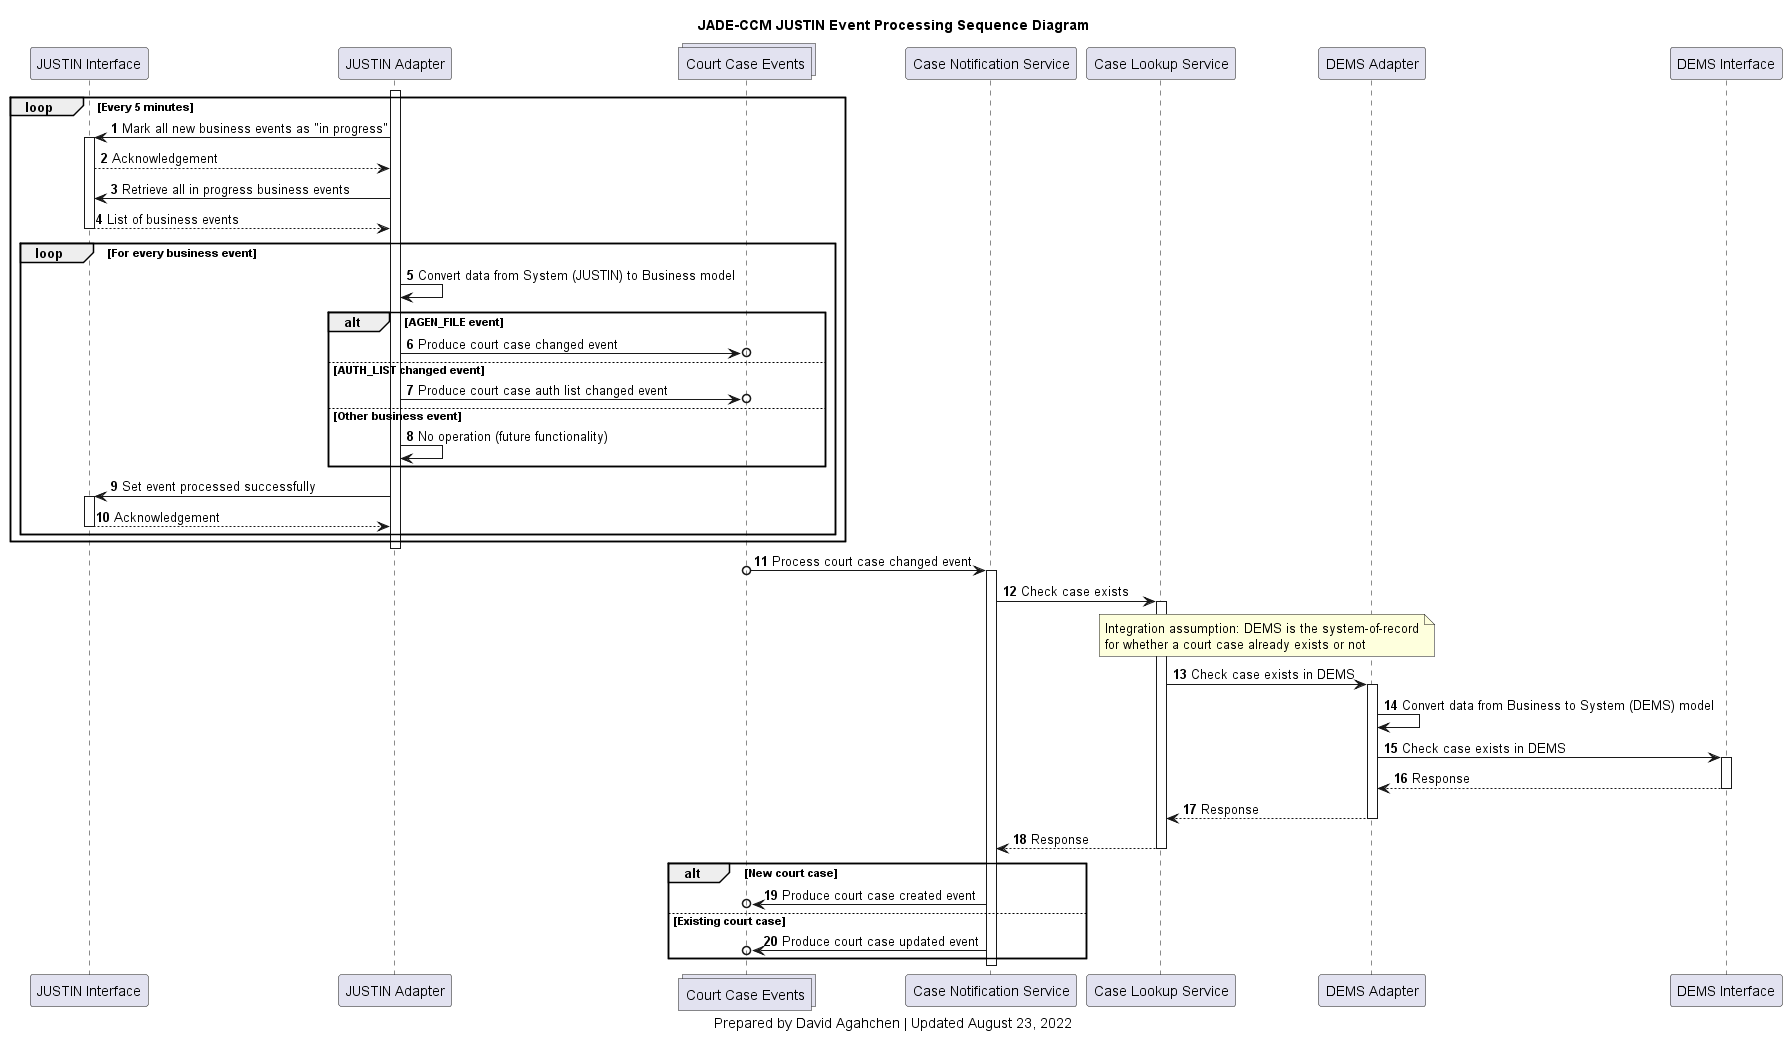
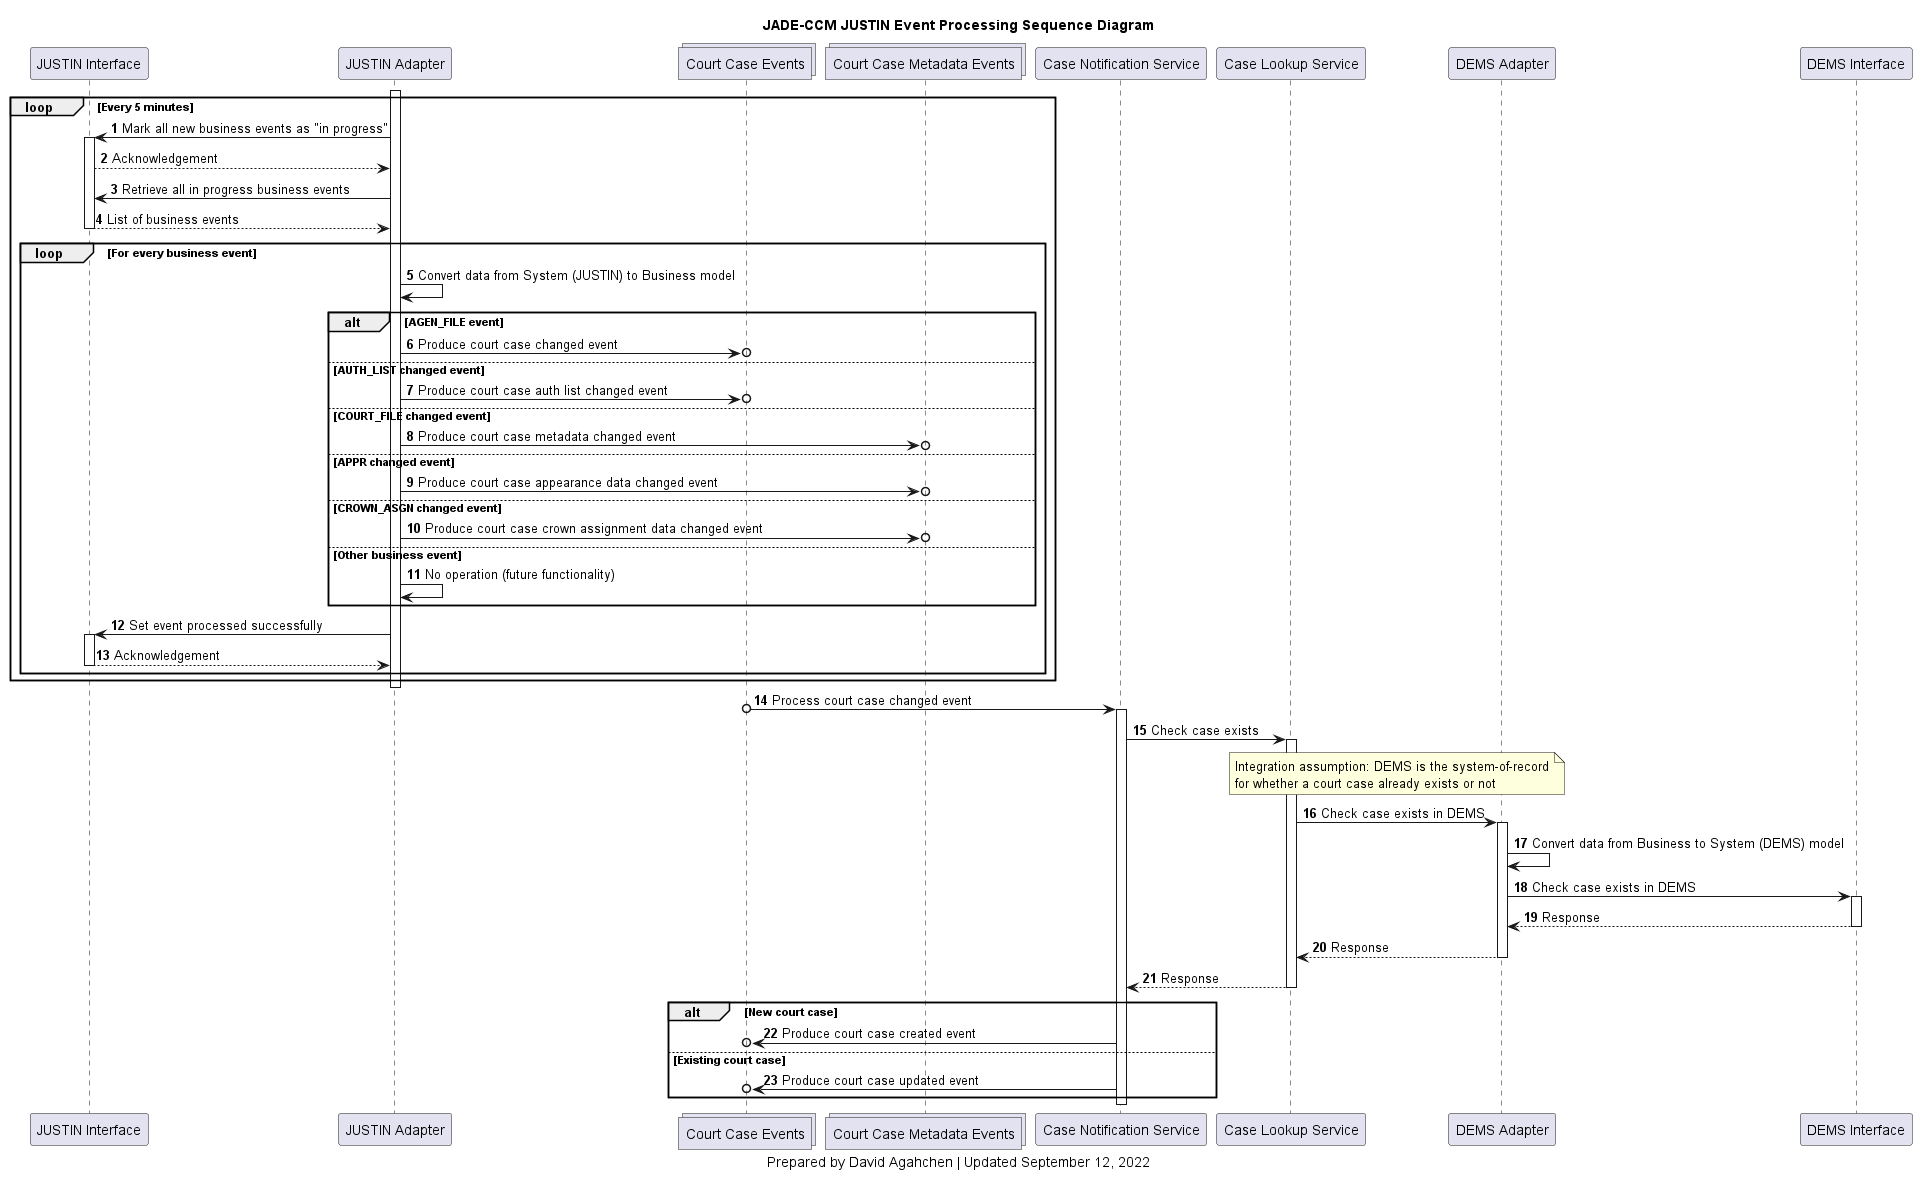
5.2.2 model changes

diff --git a/src/main/java/ccm/CcmNotificationService.java b/src/main/java/ccm/CcmNotificationService.java
@@ -20,11 +20,8 @@ import org.apache.camel.Processor;
 import org.apache.camel.builder.RouteBuilder;
 import org.apache.camel.model.dataformat.JsonLibrary;
 
-import ccm.models.business.BusinessCourtCaseData;
 import ccm.models.business.BusinessCourtCaseEvent;
-import ccm.models.business.BusinessCourtCaseMetadataData;
 import ccm.models.business.BusinessCourtCaseMetadataEvent;
-import ccm.models.system.dems.DemsCourtCaseData;
 
 public class CcmNotificationService extends RouteBuilder {
   @Override
@@ -56,13 +53,13 @@ public class CcmNotificationService extends RouteBuilder {
     .setHeader("event")
       .simple("${body}")
     .choice()
-      .when(header("event_status").isEqualTo(BusinessCourtCaseEvent.STATUS_CHANGED))
+      .when(header("event_status").isEqualTo(BusinessCourtCaseEvent.STATUS.CHANGED))
         .to("direct:processCourtCaseChanged")
-      .when(header("event_status").isEqualTo(BusinessCourtCaseEvent.STATUS_CREATED))
+      .when(header("event_status").isEqualTo(BusinessCourtCaseEvent.STATUS.CREATED))
         .to("direct:processCourtCaseCreated")
-      .when(header("event_status").isEqualTo(BusinessCourtCaseEvent.STATUS_UPDATED))
+      .when(header("event_status").isEqualTo(BusinessCourtCaseEvent.STATUS.UPDATED))
         .to("direct:processCourtCaseUpdated")
-      .when(header("event_status").isEqualTo(BusinessCourtCaseEvent.STATUS_AUTH_LIST_CHANGED))
+      .when(header("event_status").isEqualTo(BusinessCourtCaseEvent.STATUS.AUTH_LIST_CHANGED))
         .to("direct:processCourtCaseAuthListChanged")
       .otherwise()
         .to("direct:processUnknownStatus");
@@ -82,10 +79,8 @@ public class CcmNotificationService extends RouteBuilder {
     .setHeader("event")
       .simple("${body}")
     .choice()
-      .when(header("event_status").isEqualTo(BusinessCourtCaseMetadataEvent.STATUS_CHANGED))
+      .when(header("event_status").isEqualTo(BusinessCourtCaseMetadataEvent.STATUS.CHANGED))
         .to("direct:processCourtCaseMetadataChanged")
-      .when(header("event_status").isEqualTo(BusinessCourtCaseMetadataEvent.STATUS_UPDATED))
-        .to("direct:processCourtCaseMetadataUpdated")
       .otherwise()
         .to("direct:processUnknownStatus");
     ;
@@ -109,14 +104,14 @@ public class CcmNotificationService extends RouteBuilder {
 
         String event_object_id = ex.getIn().getHeader("event_object_id").toString();
 
-        be.setEvent_source(BusinessCourtCaseEvent.SOURCE_JADE_CCM);
+        be.setEvent_source(BusinessCourtCaseEvent.SOURCE.JADE_CCM.toString());
         be.setEvent_object_id(event_object_id);
         be.setJustin_rcc_id(event_object_id);
 
         if (court_case_exists) {
-          be.setEvent_status(BusinessCourtCaseEvent.STATUS_UPDATED);
+          be.setEvent_status(BusinessCourtCaseEvent.STATUS.UPDATED.toString());
         } else {
-          be.setEvent_status(BusinessCourtCaseEvent.STATUS_CREATED);
+          be.setEvent_status(BusinessCourtCaseEvent.STATUS.CREATED.toString());
         }
 
         ex.getMessage().setBody(be);
@@ -174,29 +169,6 @@ public class CcmNotificationService extends RouteBuilder {
 
     from("direct:processCourtCaseMetadataChanged")
     .routeId("processCourtCaseMetadataChanged")
-    .streamCaching() // https://camel.apache.org/manual/faq/why-is-my-message-body-empty.html
-    .log("processCourtCaseChanged.  event_object_id = ${header[event_object_id]}")
-    .setHeader("number", simple("${header[event_object_id]}"))
-    .unmarshal().json(JsonLibrary.Jackson, BusinessCourtCaseMetadataEvent.class)
-    .process(new Processor() {
-      @Override
-      public void process(Exchange ex) {
-        BusinessCourtCaseMetadataEvent be = ex.getIn().getBody(BusinessCourtCaseMetadataEvent.class);
-
-        // hardcoding conversion from STATUS_CHANGED to STATUS_UPDATED for first implementation
-        be.setEvent_status(BusinessCourtCaseMetadataEvent.STATUS_UPDATED);
-        be.setEvent_source(BusinessCourtCaseMetadataEvent.SOURCE_JADE_CCM);
-
-        ex.getMessage().setBody(be);
-      }
-    })
-    .marshal().json(JsonLibrary.Jackson, BusinessCourtCaseMetadataEvent.class)
-    .log("Generating derived court case event: ${body}")
-    .to("kafka:{{kafka.topic.courtcase-metadatas.name}}")
-    ;
-
-    from("direct:processCourtCaseMetadataUpdated")
-    .routeId("processCourtCaseMetadataUpdated")
     .streamCaching() // https://camel.apache.org/manual/faq/why-is-my-message-body-empty.html
     .log("processCourtCaseUpdated.  event_object_id = ${header[event_object_id]}")
     .setHeader("number", simple("${header[event_object_id]}"))

diff --git a/src/main/java/ccm/models/business/BusinessCourtCaseEvent.java b/src/main/java/ccm/models/business/BusinessCourtCaseEvent.java
@@ -15,38 +15,46 @@ public class BusinessCourtCaseEvent extends BusinessBaseEvent {
   private String justin_guid;
   private String justin_rcc_id;
 
-  public static final String COURT_CASE_EVENT_VERSION = "1.0";
-
-  public static final String STATUS_CHANGED = "CHANGED";
-  public static final String STATUS_CREATED = "CREATED";
-  public static final String STATUS_UPDATED = "UPDATED";
-  public static final String STATUS_AUTH_LIST_CHANGED = "AUTH_LIST_CHANGED";
-
-  public static final String SOURCE_JUSTIN = "JUSTIN";
-  public static final String SOURCE_JADE_CCM = "JADE-CCM";
+  public static final String EVENT_VERSION = "1.0";
 
   public static final String JUSTIN_FETCHED_DATE = "FETCHED_DATE";
   public static final String JUSTIN_GUID = "GUID";
-  public static final String JUSTIN_RCC_ID = "RCC_ID";
+  public static final String JUSTIN_RCC_ID = "RCC_ID";  
+
+  public enum SOURCE {
+    JUSTIN,
+    JADE_CCM
+  }
+  
+  public enum STATUS {
+    CHANGED,
+    CREATED,
+    UPDATED,
+    AUTH_LIST_CHANGED;
+  }
 
   public BusinessCourtCaseEvent() {
-    super.setEvent_version(COURT_CASE_EVENT_VERSION);
+    super.setEvent_version(EVENT_VERSION);
   }
 
   public BusinessCourtCaseEvent(JustinEvent je) {
     this();
 
-    setEvent_source(SOURCE_JUSTIN);
+    setEvent_source(SOURCE.JUSTIN.toString());
 
     setJustin_event_message_id(je.getEvent_message_id());
     setJustin_message_event_type_cd(je.getMessage_event_type_cd());
 
-    switch(je.getMessage_event_type_cd()) {
-      case JustinEvent.EVENT_TYPE_AGEN_FILE:
-        setEvent_status(STATUS_CHANGED);
+    switch(JustinEvent.STATUS.valueOf(je.getMessage_event_type_cd())) {
+      case AGEN_FILE:
+        setEvent_status(STATUS.CHANGED.toString());
         break;
-      case JustinEvent.EVENT_TYPE_AUTH_LIST:
-        setEvent_status(STATUS_AUTH_LIST_CHANGED);
+      case AUTH_LIST:
+        setEvent_status(STATUS.AUTH_LIST_CHANGED.toString());
+        break;
+      default:
+        // unknown status
+        setEvent_status("");
         break;
     }
     

diff --git a/src/main/java/ccm/models/business/BusinessCourtCaseMetadataEvent.java b/src/main/java/ccm/models/business/BusinessCourtCaseMetadataEvent.java
@@ -15,34 +15,48 @@ public class BusinessCourtCaseMetadataEvent extends BusinessBaseEvent {
   private String justin_guid;
   private String justin_mdoc_no;
 
-  public static final String COURT_CASE_EVENT_VERSION = "1.0";
-
-  public static final String STATUS_CHANGED = "CHANGED";
-  public static final String STATUS_CREATED = "CREATED";
-  public static final String STATUS_UPDATED = "UPDATED";
-
-  public static final String SOURCE_JUSTIN = "JUSTIN";
-  public static final String SOURCE_JADE_CCM = "JADE-CCM";
+  public static final String EVENT_VERSION = "1.0";
 
   public static final String JUSTIN_FETCHED_DATE = "FETCHED_DATE";
   public static final String JUSTIN_GUID = "GUID";
   public static final String JUSTIN_MDOC_NO = "MDOC_JUSTIN_NO";
 
+  public enum SOURCE {
+    JUSTIN,
+    JADE_CCM;
+  }
+
+  public enum STATUS {
+    CHANGED,
+    APPEARANCE_CHANGED,
+    CROWN_ASSIGNMENT_CHANGED
+  }
+
   public BusinessCourtCaseMetadataEvent() {
-    super.setEvent_version(COURT_CASE_EVENT_VERSION);
+    super.setEvent_version(EVENT_VERSION);
   }
 
   public BusinessCourtCaseMetadataEvent(JustinEvent je) {
     this();
 
-    setEvent_source(SOURCE_JUSTIN);
+    setEvent_source(SOURCE.JUSTIN.toString());
 
     setJustin_event_message_id(je.getEvent_message_id());
     setJustin_message_event_type_cd(je.getMessage_event_type_cd());
 
-    switch(je.getMessage_event_type_cd()) {
-      case JustinEvent.EVENT_TYPE_COURT_FILE:
-        setEvent_status(STATUS_CHANGED);
+    switch(JustinEvent.STATUS.valueOf(je.getMessage_event_type_cd())) {
+      case COURT_FILE:
+        setEvent_status(STATUS.CHANGED.toString());
+        break;
+      case APPR:
+        setEvent_status(STATUS.APPEARANCE_CHANGED.toString());
+        break;
+      case CROWN_ASGN:
+        setEvent_status(STATUS.CROWN_ASSIGNMENT_CHANGED.toString());
+        break;
+      default:
+        // unknown status
+        setEvent_status("");
         break;
     }
     

diff --git a/src/main/java/ccm/models/system/justin/JustinEvent.java b/src/main/java/ccm/models/system/justin/JustinEvent.java
@@ -13,16 +13,32 @@ public class JustinEvent {
   private String event_dtm;
   private List<JustinEventDataElement> event_data;
 
-  public static final String EVENT_TYPE_AGEN_FILE = "AGEN_FILE";
-  public static final String EVENT_TYPE_AUTH_LIST = "AUTH_LIST";
-  public static final String EVENT_TYPE_COURT_FILE = "COURT_FILE";
+  public enum STATUS {
+    AGEN_FILE,
+    AUTH_LIST,
+    COURT_FILE,
+    APPR,
+    CROWN_ASGN;
+  }
 
   public boolean isAgenFileEvent() {
-    return EVENT_TYPE_AGEN_FILE.equals(getMessage_event_type_cd());
+    return STATUS.AGEN_FILE.equals(getMessage_event_type_cd());
   }  
   
   public boolean isCourtFileEvent() {
-    return EVENT_TYPE_COURT_FILE.equals(getMessage_event_type_cd());
+    return STATUS.COURT_FILE.equals(getMessage_event_type_cd());
+  }
+
+  public boolean isAuthListEvent() {
+    return STATUS.AUTH_LIST.equals(getMessage_event_type_cd());
+  }
+
+  public boolean isApprEvent() {
+    return STATUS.APPR.equals(getMessage_event_type_cd());
+  }
+
+  public boolean isCrownAsgnEvent() {
+    return STATUS.CROWN_ASGN.equals(getMessage_event_type_cd());
   }
   
   public String getMessage_event_type_dsc() {
@@ -63,10 +79,6 @@ public class JustinEvent {
 
   public void setProcess_status_dsc(String process_status_dsc) {
     this.process_status_dsc = process_status_dsc;
-  }
-
-  public boolean isAuthListEvent() {
-    return EVENT_TYPE_AUTH_LIST.equals(getMessage_event_type_cd());
   }
 
   public int getEvent_message_id() {

diff --git a/src/main/java/ccm/CcmJustinAdapter.java b/src/main/java/ccm/CcmJustinAdapter.java
@@ -178,13 +178,19 @@ public class CcmJustinAdapter extends RouteBuilder {
       .log("Event batch record: (id=${exchangeProperty.event_message_id}, type=${exchangeProperty.message_event_type_cd})")
       .log("TEST exchangeProperty.numOfEvents: ${exchangeProperty.numOfEvents}")
       .choice()
-        .when(header("message_event_type_cd").isEqualTo(JustinEvent.EVENT_TYPE_AGEN_FILE))
+        .when(header("message_event_type_cd").isEqualTo(JustinEvent.STATUS.AGEN_FILE))
           .to("direct:processAgenFileEvent")
         .endChoice()
-        .when(header("message_event_type_cd").isEqualTo(JustinEvent.EVENT_TYPE_AUTH_LIST))
+        .when(header("message_event_type_cd").isEqualTo(JustinEvent.STATUS.AUTH_LIST))
           .to("direct:processAuthListEvent")
         .endChoice()
-        .when(header("message_event_type_cd").isEqualTo(JustinEvent.EVENT_TYPE_COURT_FILE))
+        .when(header("message_event_type_cd").isEqualTo(JustinEvent.STATUS.COURT_FILE))
+          .to("direct:processCourtFileEvent")
+        .endChoice()
+        .when(header("message_event_type_cd").isEqualTo(JustinEvent.STATUS.APPR))
+          .to("direct:processCourtFileEvent")
+        .endChoice()
+        .when(header("message_event_type_cd").isEqualTo(JustinEvent.STATUS.CROWN_ASGN))
           .to("direct:processCourtFileEvent")
         .endChoice()
         .otherwise()
